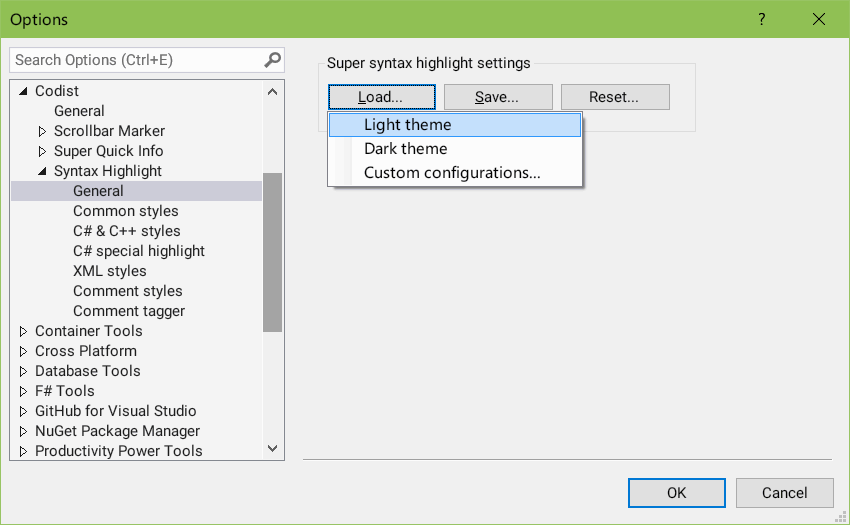
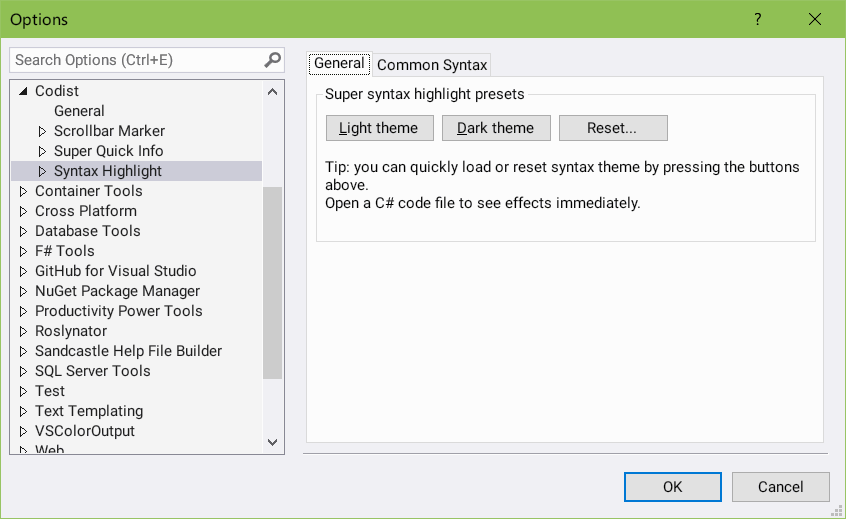
! Updated ReadMe for Codist to reflect recent changes

diff --git a/README.md b/README.md
@@ -23,17 +23,21 @@
   * Unnecessary code is marked strike-through.
   * Control flow related keywords (`return`, `throw`, `break`, `continue`, `yield` and `goto`) are highlighted with a different style.
   * Abstraction related keywords (`sealed`, `override`, `virtual`, etc) can be highlighted with an other style.
-  * All the above effects are customizable.
+  * All the above styles are customizable.
  
   ![Syntax highlight](doc/highlight1.png)
   ![Syntax highlight](doc/highlight2.png)
   ![Syntax highlight](doc/highlight3.png)
 
-  **NOTE**: To quickly get started with advanced syntax highlight, navigate to the *Syntax Highlight* section, click the *Load...* button in the *options* dialog, select *Light theme* or *Dark theme* from the pop-up menu to see them in effect. Don't forget to click the *OK* button to confirm the change.
+  **NOTE**: To quickly get started with advanced syntax highlight, navigate to the *Syntax Highlight* section, click the *Light theme* or *Dark theme* button in the *options* dialog and see them in effect. Don't forget to click the *OK* button to confirm the change.
+
+  You can see the syntax theme changed on an opened document window when you click the theme buttons.
 
   ![Load Theme](doc/load-theme.png)
 
-  To customize and tweak the syntax highlight effects, click the sub sections inside the *Syntax Highlight* section to change individual styles. While you change the setting in the dialog, you can see how the style looks in the code document window.
+  To customize and tweak the syntax highlight effects, click the *common syntax* tab in the *syntax highlight* section, or click the sub sections inside the *Syntax Highlight* section to change individual styles, accordingly.
+
+  While you change the setting in the dialog, you can see how the style looks in the code document window.
 
   ![Style customization](doc/syntax-highlight.png)
 
@@ -47,6 +51,7 @@ The quick info (the tooltip shown when you hover your mouse pointer on your C# s
   1. Size restriction
   2. Click and go to symbols
   3. XML Documentation override, with XML Doc inheritance, `<return>` exposure
+  4. Hide Quick Info until Shift is pressed
 
 * **Size restriction** 
 
@@ -56,7 +61,7 @@ The quick info (the tooltip shown when you hover your mouse pointer on your C# s
 
 * **Click and go** to symbols
 
-	If a symbol is defined in your source code, you can click and go to its definition.
+	If a symbol is defined in your source code, you can click and go to its definition. It also tells you where the symbol is defined.
 
   ![Super Quick Info 8](doc/super-quick-info-8.png)
 
@@ -117,9 +122,7 @@ The quick info (the tooltip shown when you hover your mouse pointer on your C# s
   ![Super Quick Info 9](doc/super-quick-info-9.png)
 
 ## Comment tagger and styles
-* The comment tagger highlights comments to your specific styles.
-
-  ![Comment syntax highlight](doc/comment-tagger-options.png)
+* The comment tagger highlights comments to your specific styles, according to the first token inside the comment.
 
   Here's the effect of the highlighted comments.
 
@@ -128,6 +131,10 @@ The quick info (the tooltip shown when you hover your mouse pointer on your C# s
 * The syntax style of comments or C# XML Documentations could be changed too. You can make them semitrasparent to stand behind usual code lines by changing the *Opacity* or the *Font size* value of the corresponding syntax parts.
 
   ![Comment syntax XML Doc](doc/csharp-options-xmldoc.png)
+
+  To configure the comment tags, click the *Tags* tab, in the *Comment* sub-section of the *Syntax Highlight* section, where you can add, remove or modify comment tags. 
+
+  ![Comment syntax highlight](doc/comment-tagger-options.png)
 
 ## Markers on the Scrollbar Margin
 
@@ -142,13 +149,13 @@ The scrollbar can mark...
 
 ## Smart Bar
 
-The *Smart Bar* is a context-aware tool bar displayed when you select some text.
+The *Smart Bar* is a context-aware tool bar appeared automatically when you select some text.
 
-It brings commonly used operations for contextual symbols.
+It brings commonly used operations for the selection.
 
   ![Smart Bar](doc/smart-bar.png)
 
-Buttons on the *Smart Bar* are variable according to the selection.
+Buttons on the *Smart Bar* changes from contexts.
 
   ![Smart Bar](doc/smart-bar-2.png)
 
@@ -164,12 +171,6 @@ Buttons on the *Smart Bar* are variable according to the selection.
    This option works with subsequently opened new document windows. Existing document windows won't be affected.
 
 2. Within the *Extra line margins* group box, you can adjust margins between lines to make code text more readable.
-
-4. In the *Misc* section you can control whether line numbers are drawn on the editor scrollbar.
-
-   Someone who hates Quick Info can check the *Hide Quick Info until Shift is Pressed*, so Quick Info would not pop up until we pressed Shift key and hover the mouse cursor on to the code.
-
-   *Selection info* will show you how many characters and lines are selected.
 
 # Acknowledgements
 I have learned a lot from the following extension projects.
